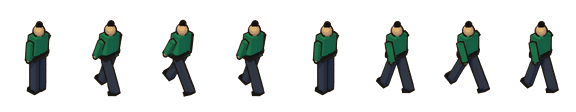
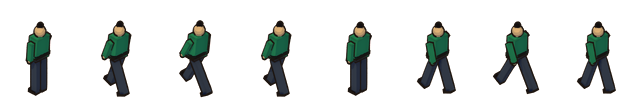
feat(art): villager work animation (hoeing, rice planting) + export_chars.py
Hero swings the hoe, wife and child bend to plant rice when they reach a
paddy; the demo faces them toward the field. export_chars.py merges baked
<id>_anim.json into chars.json. Idle wander points stay on walkable valley
tiles. Dev-only window.__demo hook for timed screenshots.

diff --git a/client/src/demo/main.ts b/client/src/demo/main.ts
@@ -146,6 +146,10 @@ async function boot(): Promise<void> {
   let hoverTile: { i: number; j: number } | null = null;
   let selected: number | null = null;
   let speed = Number(qs.get("speed") ?? 1);
+  // 开发台截图用：控制台里 __demo.speed = 1 / __demo.g 查看状态（只在 dev server 里存在）
+  if (import.meta.env?.DEV) {
+    Object.defineProperty(globalThis, "__demo", { configurable: true, value: { get g() { return g; }, get villagers() { return villagers; }, get speed() { return speed; }, set speed(v: number) { speed = v; } } });
+  }
   const auto = qs.get("auto") === "1";
   let nightA = 0;
   let clock = 0;
@@ -155,7 +159,12 @@ async function boot(): Promise<void> {
   const animFacing = new Map<number, { dir: "front" | "back"; flip: boolean }>();
 
   // ---------------------------------------------------------------- 家人（纯表现层：白天走动干活，夜里当家的守门）
-  interface Villager { key: string; kind: "hero" | "wife" | "child"; x: number; y: number; tx: number; ty: number; wait: number; face: { dir: "front" | "back"; flip: boolean }; attackT: number }
+  interface Villager {
+    key: string; kind: "hero" | "wife" | "child"; x: number; y: number; tx: number; ty: number; wait: number;
+    face: { dir: "front" | "back"; flip: boolean }; attackT: number;
+    /** 走到稻田边后干活（当家的刨地、妻儿插秧），面朝田的中心 */
+    workAt: Vec2 | null;
+  }
   const villagers = new Map<string, Villager>();
   const houseDoor = () => { const h = g.buildings.get(g.houseId)!; return { x: (h.i + h.w / 2) * T, y: h.j * T - 0.6 }; };
   const frontOf = (b: Building) => ({ x: (b.i + b.w / 2) * T + (vrand() - 0.5) * T * 0.6, y: b.j * T - 0.5 });
@@ -165,7 +174,7 @@ async function boot(): Promise<void> {
     const want: { key: string; kind: Villager["kind"] }[] = [{ key: "hero", kind: "hero" }];
     if (g.married) want.push({ key: "wife", kind: "wife" });
     g.members.filter((m) => m.kind === "child").forEach((m) => want.push({ key: `c${m.id}`, kind: "child" }));
-    for (const w of want) if (!villagers.has(w.key)) { const d = houseDoor(); villagers.set(w.key, { ...w, x: d.x, y: d.y, tx: d.x, ty: d.y, wait: vrand() * 2, face: { dir: "front", flip: false }, attackT: 0 }); }
+    for (const w of want) if (!villagers.has(w.key)) { const d = houseDoor(); villagers.set(w.key, { ...w, x: d.x, y: d.y, tx: d.x, ty: d.y, wait: vrand() * 2, face: { dir: "front", flip: false }, attackT: 0, workAt: null }); }
     for (const k of [...villagers.keys()]) if (!want.some((w) => w.key === k)) villagers.delete(k);
     const day = g.phase === "day";
     const work = [...g.buildings.values()].filter((b) => b.category === "production" || b.category === "tower");
@@ -173,6 +182,7 @@ async function boot(): Promise<void> {
     for (const v of villagers.values()) {
       v.attackT = Math.max(0, v.attackT - dt);
       if (!day) {
+        v.workAt = null;
         const d = houseDoor();
         v.tx = d.x + (v.kind === "hero" ? 0 : 0.01); v.ty = d.y;
         if (v.kind === "hero") {
@@ -184,9 +194,24 @@ async function boot(): Promise<void> {
       } else {
         v.wait -= dt;
         if (v.wait <= 0 && Math.hypot(v.tx - v.x, v.ty - v.y) < 0.1) {
-          const pool = v.kind === "wife" ? (fields.length ? fields : work) : v.kind === "hero" ? work : [];
-          const pick = pool.length ? frontOf(pool[Math.floor(vrand() * pool.length)]!) : { x: houseDoor().x + (vrand() - 0.5) * 4, y: houseDoor().y - vrand() * 2 };
-          v.tx = pick.x; v.ty = pick.y; v.wait = 2 + vrand() * 3;
+          const farms = fields.filter((b) => b.kind === "farm_rice");
+          // 当家的一半时间下田、一半时间在各处转；阿莲多半在田里；孩子在门口玩，偶尔跟着下田
+          const pool = v.kind === "wife" ? (fields.length ? fields : work)
+            : v.kind === "hero" ? (farms.length && vrand() < 0.5 ? farms : work)
+            : farms.length && vrand() < 0.35 ? farms : [];
+          const b = pool.length ? pool[Math.floor(vrand() * pool.length)]! : null;
+          // 闲逛点只落在谷地里能走的空格上（主屋门前就是山石，别走到石头上去）
+          const wander = () => {
+            for (let tries = 0; tries < 8; tries++) {
+              const p = { x: houseDoor().x + (vrand() - 0.5) * 5, y: houseDoor().y + (vrand() - 0.5) * 4 };
+              const ti = Math.floor(p.x / T), tj = Math.floor(p.y / T);
+              if (freeTile(ti, tj)) return p;
+            }
+            return houseDoor();
+          };
+          const pick = b ? frontOf(b) : wander();
+          v.workAt = b && b.kind === "farm_rice" ? { x: (b.i + b.w / 2) * T, y: (b.j + b.d / 2) * T } : null;
+          v.tx = pick.x; v.ty = pick.y; v.wait = (v.workAt ? 4 : 2) + vrand() * 3;
         }
       }
       const dx = v.tx - v.x, dy = v.ty - v.y, dist = Math.hypot(dx, dy);
@@ -195,6 +220,9 @@ async function boot(): Promise<void> {
         const k = Math.min(1, sp / dist);
         v.x += dx * k; v.y += dy * k;
         v.face = facingFromScreenDelta(dx + dy, dx - dy, v.face);
+      } else if (v.workAt) {
+        const fx = v.workAt.x - v.x, fy = v.workAt.y - v.y;
+        v.face = facingFromScreenDelta(fx + fy, fx - fy, v.face);
       }
     }
   };
@@ -210,8 +238,11 @@ async function boot(): Promise<void> {
         draw: (c, p, ppm) => {
           c.globalAlpha = 0.3 * (1 - 0.4 * nightA); c.fillStyle = "#1f2740";
           c.beginPath(); c.ellipse(p.x, p.y, ppm * 0.35 * CHAR_SCALE, ppm * 0.14 * CHAR_SCALE, 0, 0, Math.PI * 2); c.fill(); c.globalAlpha = 1;
-          const action = v.attackT > 0 ? "attack" : "walk";
-          drawAnimFrame(c, meta, img, p, ppm, CHAR_SCALE, v.face.dir, v.face.flip, action === "walk" && !moving ? 0 : clock, nightA, action);
+          const working = !moving && v.workAt && g.phase === "day" && meta.actions?.work && img.actions?.work;
+          const action = v.attackT > 0 ? "attack" : working ? "work" : "walk";
+          // 各人干活节奏错开一点，免得全村齐刷刷同一帧
+          const phase = v.key.length * 0.37 + (v.kind === "child" ? 0.5 : 0);
+          drawAnimFrame(c, meta, img, p, ppm, CHAR_SCALE, v.face.dir, v.face.flip, action === "walk" && !moving ? 0 : clock + phase, nightA, action);
         },
       });
     }

diff --git a/pipeline/atlas/export_chars.py b/pipeline/atlas/export_chars.py
@@ -1,0 +1,55 @@
+"""
+角色序列帧导出：把 bake_sprite_anim.py 的输出（<id>_anim.json + 精灵表 PNG）合并进客户端的 chars.json。
+
+  python3 pipeline/atlas/export_chars.py --anims /path/to/bake_out --out client/assets/dev/chars
+  python3 pipeline/atlas/export_chars.py --anims /path/to/bake_out --out client/assets/dev/chars --only hero,wife
+
+只增改烘过的角色，chars.json 里其他角色保持不动；同一个 chars.json 里所有角色必须是同一 px_per_meter。
+不依赖 Blender / PIL，纯标准库。
+"""
+
+import argparse
+import json
+import shutil
+import sys
+from pathlib import Path
+
+
+def main():
+    p = argparse.ArgumentParser()
+    p.add_argument("--anims", required=True, help="bake_sprite_anim.py 的 --out 目录")
+    p.add_argument("--out", required=True, help="客户端角色目录（含 chars.json）")
+    p.add_argument("--only", default="", help="逗号分隔，只导出这些角色")
+    a = p.parse_args()
+    src, out = Path(a.anims).expanduser().resolve(), Path(a.out).expanduser().resolve()
+    out.mkdir(parents=True, exist_ok=True)
+    only = {x for x in a.only.split(",") if x}
+
+    index_path = out / "chars.json"
+    index = json.loads(index_path.read_text("utf-8")) if index_path.exists() else {"px_per_meter": None, "chars": {}}
+    n = 0
+    for meta_path in sorted(src.glob("*_anim.json")):
+        meta = json.loads(meta_path.read_text("utf-8"))
+        cid = meta["id"]
+        if only and cid not in only:
+            continue
+        ppm = meta["px_per_meter"]
+        if index["px_per_meter"] not in (None, ppm):
+            sys.exit(f"{cid}: px_per_meter {ppm} 与 chars.json 的 {index['px_per_meter']} 不一致（先统一烘培比例）")
+        index["px_per_meter"] = ppm
+        files = set()
+        for act in (meta.get("actions") or {"walk": {"dirs": meta["dirs"]}}).values():
+            for d in act["dirs"].values():
+                files.update(d.values())
+        for f in sorted(files):
+            shutil.copy2(src / f, out / f)
+        index["chars"][cid] = meta
+        n += 1
+        print(f"EXPORTED {cid} actions={list((meta.get('actions') or {}).keys())} files={len(files)}")
+    index["chars"] = dict(sorted(index["chars"].items()))
+    index_path.write_text(json.dumps(index, ensure_ascii=False, indent=2), "utf-8")
+    print(f"INDEX {index_path} ({len(index['chars'])} chars, {n} updated)")
+
+
+if __name__ == "__main__":
+    main()

diff --git a/pipeline/blender/make_characters.py b/pipeline/blender/make_characters.py
@@ -261,6 +261,39 @@ def build_bandit(variant="swordsman", frames=8, action="walk"):
         parts.append((_cone("b_hat", 0.3, 0.02, 0.18, (0, 0, 1.77), "hat"), "head"))
     for o, b in parts:
         _bind(arm, o, b)
+    if action == "work":
+        # 干活（只给家人）：当家的双手抡锄头刨地；阿莲 / 孩子弯腰插秧、两手交替往下点
+        for f in range(frames + 1):
+            ph = f / frames
+            if variant == "hero":
+                if ph < 0.5:
+                    a = -120 * (ph / 0.5)                         # 慢慢举锄过肩
+                    bend = 6 * (ph / 0.5)
+                elif ph < 0.7:
+                    k = (ph - 0.5) / 0.2
+                    a = -120 + 165 * k                           # 猛地刨下去
+                    bend = 6 - 34 * k
+                else:
+                    k = (ph - 0.7) / 0.3
+                    a = 45 * (1 - k)                             # 拔锄回正
+                    bend = -28 * (1 - k)
+                _key(arm, "arm_r", f + 1, rot=(a, 0, 0))
+                _key(arm, "arm_l", f + 1, rot=(a * 0.85, 0, -12))
+                _key(arm, "chest", f + 1, rot=(bend, 0, 0))
+                _key(arm, "leg_l", f + 1, rot=(-16, 0, 0))
+                _key(arm, "leg_r", f + 1, rot=(14, 0, 0))
+                _key(arm, "hips", f + 1, loc=(0, 0, -0.05 * max(0.0, -bend) / 28))
+            else:
+                t = ph * 2 * math.pi
+                _key(arm, "chest", f + 1, rot=(-38 + 5 * math.sin(t), 0, 0))
+                _key(arm, "head", f + 1, rot=(18, 0, 0))
+                _key(arm, "arm_l", f + 1, rot=(35 + 50 * max(0.0, math.sin(t)), 0, 8))
+                _key(arm, "arm_r", f + 1, rot=(35 + 50 * max(0.0, -math.sin(t)), 0, -8))
+                _key(arm, "leg_l", f + 1, rot=(-10, 0, 0))
+                _key(arm, "leg_r", f + 1, rot=(10, 0, 0))
+                _key(arm, "hips", f + 1, loc=(0, 0.04, -0.06))
+        _cyclic(arm)
+        return arm, [o for o, _ in parts], frames
     if action == "attack":
         # 劈砍：右臂举过头顶 → 猛劈下；盾匪用盾顶撞；身体随之前倾，弓步站定
         for f in range(frames + 1):

diff --git a/pipeline/blender/bake_sprite_anim.py b/pipeline/blender/bake_sprite_anim.py
@@ -31,6 +31,13 @@ import stylize_sprites as st  # noqa: E402
 
 DIRS = {"front": 0.0, "back": -90.0}
 ACTIONS = {"walk": 8, "attack": 6}  # 动作: 帧数
+VILLAGER_ACTIONS = {**ACTIONS, "work": 8}  # 家人多一个“干活”（刨地 / 插秧）
+VILLAGERS = {"hero", "wife", "child"}
+ACTION_FPS = {"attack": 12, "work": 8}
+
+
+def actions_for(name):
+    return VILLAGER_ACTIONS if name in VILLAGERS else ACTIONS
 
 
 def parse_args():
@@ -75,7 +82,7 @@ def bake_char(name, out, profile, profile_path, args):
 
     # 先算两个朝向所有帧的联合包围盒，保证两个朝向画布一致
     all_pts = []
-    for action, nfr in ACTIONS.items():
+    for action, nfr in actions_for(name).items():
         for yaw in DIRS.values():
             bk.reset_scene(True)
             arm, meshes, frames = mc.build(name, nfr, action)
@@ -84,7 +91,7 @@ def bake_char(name, out, profile, profile_path, args):
             all_pts += frame_bbox(meshes, frames)
 
     meta = None
-    for action, nfr in ACTIONS.items():
+    for action, nfr in actions_for(name).items():
       for dname, yaw in DIRS.items():
         t0 = time.time()
         scene = bk.reset_scene(True)
@@ -127,7 +134,7 @@ def bake_char(name, out, profile, profile_path, args):
         files = {"day": f"{name}_{dname}{suffix}_day.png", "night": f"{name}_{dname}{suffix}_night.png"}
         if action == "walk":
             meta["dirs"][dname] = files
-        act = meta["actions"].setdefault(action, {"frames": frames, "fps": args.fps if action == "walk" else 12, "dirs": {}})
+        act = meta["actions"].setdefault(action, {"frames": frames, "fps": ACTION_FPS.get(action, args.fps), "dirs": {}})
         act["dirs"][dname] = files
         print(f"BAKED_ANIM {name}/{action}/{dname} {frames}f {res_x}x{res_y} in {time.time() - t0:.1f}s", flush=True)
     with open(out / f"{name}_anim.json", "w", encoding="utf-8") as fp:

diff --git a/docs/art/ART_BIBLE.md b/docs/art/ART_BIBLE.md
@@ -86,7 +86,7 @@
 - 朝向：只烘两个（front 面朝左下、back 面朝左上），朝右的两个由客户端水平镜像；8 帧行走、10fps，脚底中心为锚点。
 - 夜晚：敌人身上没有灯，夜晚版由白昼版调成“月下夜靛”（约 60% 亮度），保证夜里依然看得清——这是可读性优先于写实的有意取舍。
 - 外轮廓墨线比建筑细一档（×0.8），角色小，太粗会糊成一团；客户端显示时放大约 1.45 倍。
-- 动作：行走（8 帧循环）+ 攻击（6 帧：野兽扑咬、土匪举刀劈砍、盾匪顶盾、当家的挥锄）；客户端在敌人砍建筑时自动切攻击并转向目标。
+- 动作：行走（8 帧循环）+ 攻击（6 帧：野兽扑咬、土匪举刀劈砍、盾匪顶盾、当家的挥锄）；客户端在敌人砍建筑时自动切攻击并转向目标。家人另有“干活”（8 帧、8fps）：当家的双手抡锄刨地，阿莲 / 孩子弯腰插秧，走到稻田边时面朝田播放。导出用 `pipeline/atlas/export_chars.py`（合并进 `chars.json`，只增改烘过的角色）。
 - 家人：当家的（斗笠、赭石短褐、锄头）、阿莲（石青衣裙、朱砂围裙、发髻）、孩子（石绿短衣、小一号）。白天在村里走动干活，夜里妻儿进屋、当家的守门挥锄——“攒钱娶妻生子”要在画面上看得见。
 - 样张：`docs/art/samples/characters_walk_sheets.png`、`characters_attack_sheets.png`、`characters_villagers.png`、`demo_chars_night.jpg`、`demo_villagers_day.jpg`。
 

diff --git a/HANDOFF.md b/HANDOFF.md
@@ -206,3 +206,4 @@
 - **演示**：谷口（出怪那头）山石上一座烽火盆；`?rich=1` 第 6 天就会修成大院（截图 `docs/art/samples/demo_courtyard_day7.jpg`）。
 - **待定（T6）**：大院修好后钱已花光，祠堂 / 滚木塔在 10 夜内仍然很少出现；种子 7 第 10 夜主屋只剩 1%（5 种子平均 40% 达标）。要不要降低祠堂 / 滚木塔造价，留给 T6。
 - **未做**：替身全部是半比例（64px/m），正式比例应在 Colab 烘。
+- **家人干活动作**：`make_characters.py` 加 `work` 动作（当家的双手抡锄刨地；阿莲 / 孩子弯腰插秧、两手交替往下点），`bake_sprite_anim.py` 只给家人多烘这一套（8 帧 8fps），新增 `pipeline/atlas/export_chars.py` 把烘培结果合并进 `chars.json`。演示：当家的一半时间、阿莲多半时间、孩子偶尔走到稻田边，面朝田干活；孩子闲逛不再走到山石上。开发台新增 `window.__demo`（`speed` 可写、`g` / `villagers` 只读，只在 dev server 里有），截图时把速度降到 1× 或 0。
